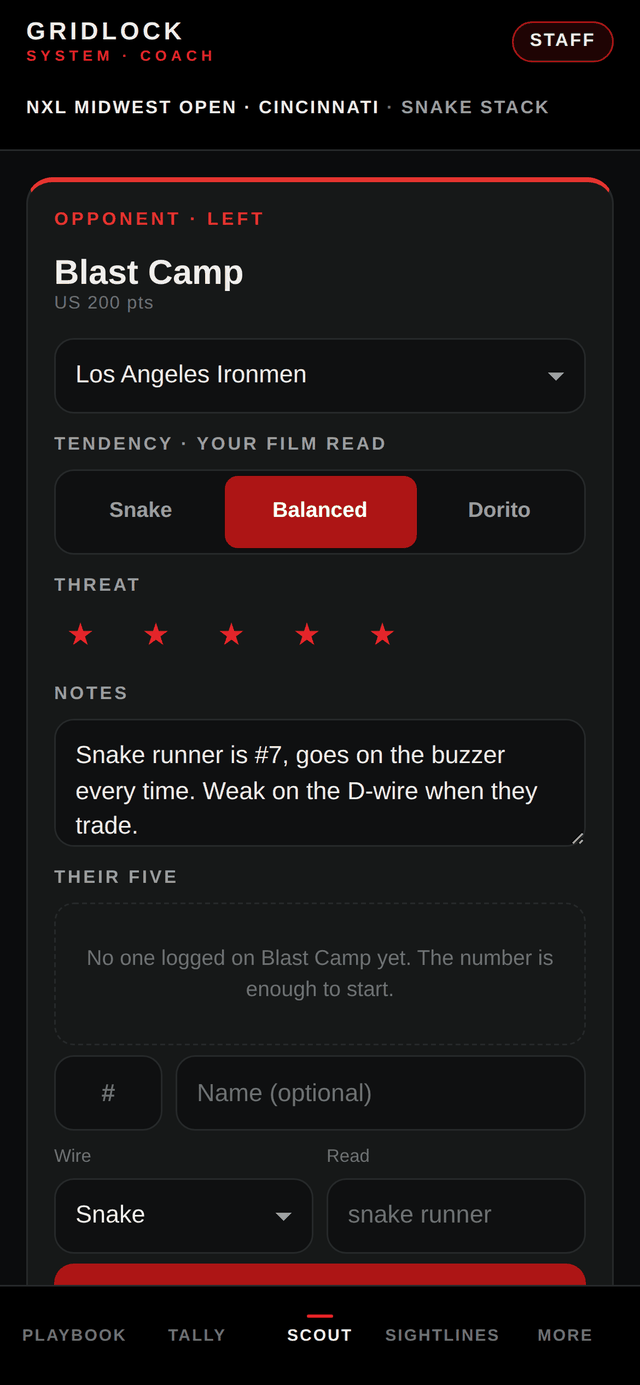
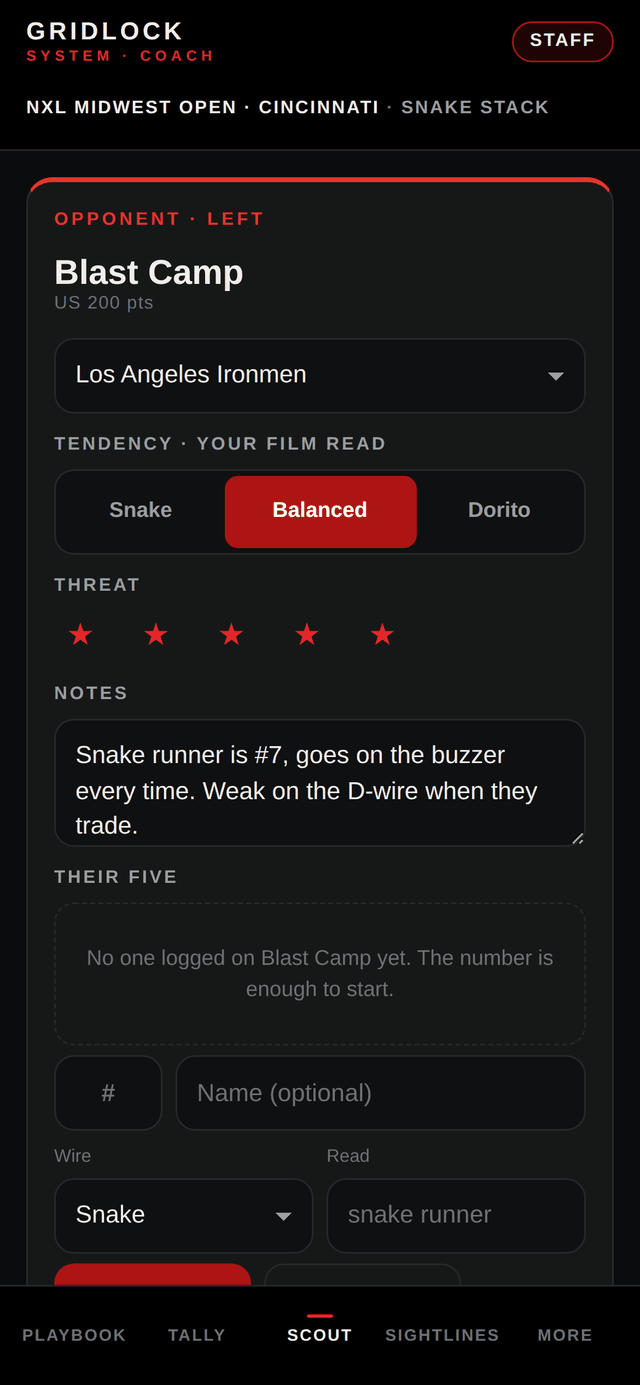
Read a roster off a screenshot, and stop losing the coach's place
Scout can now take a roster the phone read out of a picture. There is no
network in this app and there will not be one, so nothing is fetched: the
coach screenshots the roster, lets iOS Live Text or Android Lens read it,
and pastes the text in. What arrives is ragged, so it is parsed into
number, name and wire, shown back as a list he can drop rows from, and
only added once he has looked at it. Duplicates against players already
logged are skipped, and a pasted player is editable like a typed one.

Also fixes something older and worse. Every tap rebuilds the screen, and
a rebuilt scroller comes back at the top, so grading a man at the bottom
of a long card threw the coach to the head of the tab. Render now holds
the place unless the screen itself changed.

304 function checks, 61 device checks across 14 devices, 58/58 bunkers at
0.0000 ft, load test within budget.

Claude-Session: https://claude.ai/code/session_019NY29crEcm2oYkRmb2ARNX

Changed region(s): [[0.375, 0.9004, 0.9062, 0.9314]]

diff --git a/web/index.html b/web/index.html
@@ -424,6 +424,11 @@ svg.field{width:100%;height:auto;display:block}
 .rost__num{text-align:center;font-weight:700}
 .rost__add{display:grid;grid-template-columns:66px 1fr;gap:var(--s2)}
 .rost__add .rost__ps{grid-column:1/-1}
+.rost__read{display:grid;grid-template-columns:52px 1fr auto;align-items:center;gap:var(--s3);
+  padding:var(--s2) var(--s3);background:var(--sunk);border-radius:var(--r-sm);min-height:48px}
+.rost__read b{text-align:center;font-weight:700;color:var(--accent-lit)}
+.rost__read span{min-width:0;overflow:hidden;text-overflow:ellipsis;white-space:nowrap}
+.paste{margin-top:var(--s3);padding:var(--s3);border:1px solid var(--line);border-radius:var(--r-md)}
 
 .who2{display:grid;grid-template-columns:1fr 1fr;gap:var(--s3)}
 .who2 h4{margin:0 0 var(--s2);font-size:var(--t-xs);font-weight:700;letter-spacing:.12em;text-transform:uppercase;color:var(--mute)}
@@ -937,6 +942,10 @@ let S = load();
 // A saved layout that no longer ships — the fabricated Tampa Bay and Cincinnati
 // entries — must not leave a coach staring at an empty field.
 if(!LAYOUTS[S.layoutKey]) S.layoutKey = "mwo";
+
+// A half-finished paste is scratch, not a record. It should not still be sitting
+// open three days later at the next event.
+S.paste = null; S.pasteSide = ""; S.pasteNote = "";
 
 // Walk notes and code words were single text boxes. Nobody's typing is thrown
 // away: what was in the box becomes the first entry in the new list.
@@ -2048,6 +2057,67 @@ window.setScoutThreat = (side, i, n) => {
   editProfile(side, {players: pitOf(side).players.map((p, k) => k === i ? {...p, threat:n} : p)});
   render();
 };
+// ---- a roster read off a screenshot ----
+// Nothing is fetched: there is no network in this app and there is not going to
+// be one. The phone already reads text out of a picture — press and hold a
+// screenshot in Photos on iOS, tap the text button in Lens on Android — so the
+// coach copies it there and drops it in here. What arrives is loose and messy,
+// so it is parsed, shown back, and only added once he has looked at it.
+const ROSTER_JUNK = /^(#|no\.?|num(ber)?|player(s)?|name|roster|pos(ition)?|team(s)?|division|class|event|rank(ing)?|pts|points|paid|owed|reg(istration)?|status|home|menu|share|follow|back)$/i;
+const ROSTER_WIRE = [[/\bsnake\b/i,"Snake"],[/\bdorito\b/i,"Dorito"],[/\bcent(er|re)\b/i,"Centre"],[/\bback\b/i,"Back"]];
+function looksLikeName(s){
+  const words = s.split(" ").filter(Boolean);
+  return words.length >= 1 && words.length <= 4 && s.length <= 40 &&
+         words.every(w => /^[A-Za-z][A-Za-z'’.\-]*$/.test(w));
+}
+function parseRoster(text){
+  const found = [], skipped = [];
+  String(text || "").split(/[\n\r]+/).forEach(raw => {
+    const line = raw.replace(/[|\t,;]+/g, " ").replace(/^[•\-–*]\s*/, "")
+                    .replace(/\s+/g, " ").trim();
+    if(!line) return;
+    // one heading, or a whole header row of them: "Player  No.", "# Name Team"
+    if(line.split(" ").every(w => ROSTER_JUNK.test(w))) return;
+    let rest = line, num = "";
+    const lead = rest.match(/^#?\s*(\d{1,3})\b\s*/);
+    const tail = rest.match(/\s*#?\s*(\d{1,3})$/);
+    if(lead){ num = lead[1]; rest = rest.slice(lead[0].length); }
+    else if(tail){ num = tail[1]; rest = rest.slice(0, tail.index); }
+    let wire = "";
+    ROSTER_WIRE.forEach(([re, w]) => {
+      if(!wire && re.test(rest)){ wire = w; rest = rest.replace(re, " "); }
+    });
+    rest = rest.replace(/[^A-Za-z'’.\- ]/g, " ").replace(/\s+/g, " ").trim();
+    if(!rest && !num){ skipped.push(line); return; }
+    if(rest && !looksLikeName(rest)){ skipped.push(line); return; }   // prose, not a player
+    found.push({num, name: clean(rest), wire: wire || "Flex", note: "", threat: 3});
+  });
+  return {found: found.slice(0, 40), skipped};
+}
+window.openPaste = side => { S.pasteSide = side; S.paste = null; S.pasteNote = ""; save(S); render(); };
+window.closePaste = () => { S.pasteSide = ""; S.paste = null; save(S); render(); };
+window.readRoster = side => {
+  const el = document.getElementById("rosterIn"), text = el ? el.value : "";
+  S.paste = {side, text, ...parseRoster(text)};
+  save(S); render();
+};
+window.dropPasted = i => {
+  S.paste = {...S.paste, found: S.paste.found.filter((_, k) => k !== i)};
+  save(S); render();
+};
+window.keepRoster = () => {
+  const {side, found} = S.paste || {};
+  if(!side || !(found || []).length) return;
+  const have = pitOf(side).players;
+  const dupe = p => have.some(h => (p.num && h.num === p.num) ||
+                                  (p.name && (h.name || "").toLowerCase() === p.name.toLowerCase()));
+  const add = found.filter(p => !dupe(p));
+  editProfile(side, {players: [...have, ...add]});
+  const already = found.length - add.length;
+  S.pasteSide = ""; S.paste = null;
+  S.pasteNote = `Added ${add.length}.` + (already ? ` ${already} ${already===1?"was":"were"} already logged.` : "");
+  save(S); render();
+};
 window.delScoutPlayer = (side, i) => {
   editProfile(side, {players: pitOf(side).players.filter((_, k) => k !== i)});
   render();
@@ -2513,8 +2583,42 @@ function pit(side,T,label){
             <input id="sp-note-${side}" placeholder="snake runner"/></label>
         </div>
       </div>
-      <button class="btn btn--block" onclick="addScoutPlayer('${side}')">Log a player</button>
+      <div class="toggles">
+        <button class="btn" onclick="addScoutPlayer('${side}')">Log a player</button>
+        <button class="btn btn--quiet" onclick="openPaste('${side}')">Paste a roster</button>
+      </div>
+      ${S.pasteSide === side ? pasteBox(side) : ""}
+      ${S.pasteNote && S.pasteSide !== side ? `<p class="note" style="color:var(--accent-lit)">${esc(S.pasteNote)}</p>` : ""}
     </div>
+  </div>`;
+}
+
+// The screenshot never reaches this app — the phone reads it, the coach pastes
+// the text, and he sees what was read before a single name is kept.
+function pasteBox(side){
+  const p = (S.paste && S.paste.side === side) ? S.paste : null;
+  return `<div class="paste">
+    <p class="note">Screenshot their roster, then let the phone read the picture — press and hold it in
+      Photos on iPhone, or tap the text button in Lens on Android — copy, and paste it here. It stays
+      on this phone.</p>
+    <div class="fld"><label>Paste the roster</label>
+      <textarea id="rosterIn" placeholder="12 Ryan Greenspan&#10;#4 Alex Goldman snake&#10;Chad Busiere 7">${esc((p && p.text) || "")}</textarea></div>
+    <div class="toggles">
+      <button class="btn" onclick="readRoster('${side}')">Read it</button>
+      <button class="btn btn--quiet" onclick="closePaste()">Cancel</button>
+    </div>
+    ${p ? (p.found.length
+      ? `<div class="fld"><label>Read ${p.found.length} ${p.found.length===1?"player":"players"} · drop any that are wrong</label>
+          <div class="rost">${p.found.map((m,i)=>`<div class="rost__read">
+            <b>${esc(m.num || "—")}</b><span>${esc(m.name || "no name")}</span>
+            <button class="btn btn--danger" onclick="dropPasted(${i})">Drop</button>
+          </div>`).join("")}</div></div>
+        <button class="btn btn--block" onclick="keepRoster()">Add these to ${esc(pitOf(side).name)}</button>`
+      : `<div class="empty">Nothing in that read as a player. Type them in above instead.</div>`) : ""}
+    ${p && p.skipped.length
+      ? `<p class="note">Left out ${p.skipped.length} ${p.skipped.length===1?"line":"lines"} that did not read as a player:
+         ${esc(p.skipped.slice(0,3).join(" · "))}${p.skipped.length>3?" …":""}</p>`
+      : ""}
   </div>`;
 }
 
@@ -3274,8 +3378,21 @@ window.cycleEvent = () => {
   set({layoutKey:keys[(keys.indexOf(S.layoutKey)+1)%keys.length]});
 };
 
+// Every tap rebuilds the whole screen, and the browser puts a rebuilt scroller
+// back at the top. So grading a man at the bottom of a long card, or dropping a
+// row off a pasted roster, threw the coach back to the head of the tab. Between
+// points on a sideline that is the difference between using this and putting it
+// down. Hold the place unless the screen itself changed — a new tab does belong
+// at the top.
+let _where = "";
 function render(){
+  const main = document.querySelector(".main");
+  const at = main ? main.scrollTop : 0;
+  const screen = [S.entered, S.tab, S.more, S.scoutTab].join("|");
   document.getElementById("root").innerHTML = S.entered ? shell() : promo();
+  const next = document.querySelector(".main");
+  if(next && screen === _where) next.scrollTop = at;
+  _where = screen;
 }
 render();
 </script>

diff --git a/test/functions.js b/test/functions.js
@@ -133,6 +133,25 @@ const ROSTER = [
       ? !!document.querySelector("button.ctx")
       : !document.querySelector("button.ctx") && !!document.querySelector(".ctx")));
 
+  // Every tap rebuilds the screen. It used to come back at the top, which threw
+  // the coach off whatever he was reading, halfway down a long card.
+  check("a tap deep in a card leaves the screen where it was", await ev(async () => {
+    window.set({ tab: "scout", scoutTab: "matchup" });
+    await new Promise(r => setTimeout(r, 80));
+    const main = document.querySelector(".main");
+    main.scrollTop = 600;
+    const was = main.scrollTop;
+    window.setThreat("right", 2);
+    await new Promise(r => setTimeout(r, 80));
+    return was > 0 && document.querySelector(".main").scrollTop === was;
+  }));
+  check("changing tab does start at the top", await ev(async () => {
+    document.querySelector(".main").scrollTop = 600;
+    window.set({ tab: "tally" });
+    await new Promise(r => setTimeout(r, 80));
+    return document.querySelector(".main").scrollTop === 0;
+  }));
+
   /* --------------------------------------------------------------- playbook */
   G("Playbook");
   await seed();
@@ -824,6 +843,104 @@ const ROSTER = [
     /lean dorito/.test(profileOf("Malicious").notes) && profileOf("Rejects").notes === ""));
   check("the migrated slot keeps only the team name", await ev(() =>
     Object.keys(S.left).join() === "name"));
+
+  /* -------------------------------- a roster read off the phone's own OCR */
+  // A screenshot never reaches this app. The phone reads the picture, the coach
+  // pastes what it read, and this has to survive how ragged that text is.
+  G("Roster from a screenshot");
+  await ev(() => window.set({ tab: "scout", scoutTab: "matchup", scout: {},
+    left: { name: "Blast Camp" }, right: { name: "Rejects" }, paste: null, pasteSide: "" }));
+
+  const parse = t => ev(x => parseRoster(x), t);
+  check("number first, name after", await parse("12 Ryan Greenspan").then(r =>
+    r.found.length === 1 && r.found[0].num === "12" && r.found[0].name === "Ryan Greenspan"));
+  check("a hash in front is still a number", await parse("#4 Alex Goldman").then(r =>
+    r.found[0].num === "4" && r.found[0].name === "Alex Goldman"));
+  check("name first, number after", await parse("Chad Busiere 7").then(r =>
+    r.found[0].num === "7" && r.found[0].name === "Chad Busiere"));
+  check("a table pasted with tabs or pipes reads the same", await parse("9\tKS Kang\n| 15 | Nick Slowiak |").then(r =>
+    r.found.length === 2 && r.found[0].num === "9" && r.found[1].name === "Nick Slowiak"));
+  check("a wire named on the line is picked up", await parse("4 Alex Goldman snake").then(r =>
+    r.found[0].wire === "Snake" && r.found[0].name === "Alex Goldman"));
+  check("no wire named means flex, never a guess", await parse("4 Alex Goldman").then(r =>
+    r.found[0].wire === "Flex"));
+  check("a number with no name is still a player", await parse("22").then(r =>
+    r.found.length === 1 && r.found[0].num === "22" && r.found[0].name === ""));
+  check("a name with no number is still a player", await parse("Ryan Greenspan").then(r =>
+    r.found.length === 1 && r.found[0].name === "Ryan Greenspan" && r.found[0].num === ""));
+  check("column headings are dropped", await parse("Player\nNo.\nDivision\n7 Reyes").then(r =>
+    r.found.length === 1 && r.found[0].name === "Reyes"));
+  check("a whole header row is dropped, not read as a man", await parse("Player  No.\n# Name Team\n7 Reyes").then(r =>
+    r.found.length === 1 && r.found[0].name === "Reyes"));
+  check("page chrome and prose are left out, not guessed at", await parse(
+    "7 Reyes\nRegistration closes on the fourteenth of June at midnight\nmenu").then(r =>
+    r.found.length === 1 && r.skipped.length === 1));
+  check("what was left out is handed back so nothing goes quiet", await parse(
+    "Registration closes on the fourteenth of June").then(r =>
+    r.found.length === 0 && r.skipped.length === 1));
+  check("a paste is capped so one bad screenshot cannot flood the sheet", await parse(
+    Array.from({ length: 60 }, (_, i) => (i + 1) + " Player" + i).join("\n")).then(r =>
+    r.found.length === 40));
+  check("threat starts unscored at three, the same as a typed player", await parse("12 Greenspan").then(r =>
+    r.found[0].threat === 3));
+
+  check("reading it shows what was read and adds nobody yet", await ev(() => {
+    window.openPaste("right");
+    document.getElementById("rosterIn").value = "12 Ryan Greenspan\n#4 Alex Goldman snake\nChad Busiere 7";
+    window.readRoster("right");
+    return S.paste.found.length === 3 && pitOf("right").players.length === 0;
+  }));
+  check("the read list is on screen with a way to drop a bad row",
+    await page.locator(".rost__read").count() === 3 &&
+    await page.locator(".rost__read .btn--danger").count() === 3);
+  check("dropping a row takes it out before anyone is kept", await ev(() => {
+    window.dropPasted(1);
+    return S.paste.found.length === 2 && S.paste.found[1].name === "Chad Busiere";
+  }));
+  check("keeping them logs the rest against the team", await ev(() => {
+    window.keepRoster();
+    const men = pitOf("right").players;
+    return men.length === 2 && men[0].num === "12" && men[1].name === "Chad Busiere";
+  }));
+  check("the box closes and says what it did", await ev(() =>
+    !S.paste && S.pasteSide === "" && /Added 2/.test(S.pasteNote)));
+  check("a second paste of the same roster adds nobody twice", await ev(() => {
+    window.openPaste("right");
+    document.getElementById("rosterIn").value = "12 Ryan Greenspan\n7 Chad Busiere\n15 Nick Slowiak";
+    window.readRoster("right");
+    window.keepRoster();
+    return pitOf("right").players.length === 3 && /already logged/.test(S.pasteNote);
+  }));
+  check("a pasted player is editable like any other", await ev(() => {
+    window.editScoutPlayer("right", 0, "name", "R. Greenspan");
+    window.setScoutThreat("right", 0, 5);
+    const m = pitOf("right").players[0];
+    return m.name === "R. Greenspan" && m.threat === 5;
+  }));
+  check("a pasted roster belongs to the team, not the pit", await ev(() => {
+    window.loadPit("Las Vegas Shock");
+    const clean = pitOf("right").players.length === 0;
+    window.loadPit("Rejects");
+    return clean && pitOf("right").players.length === 3;
+  }));
+  check("it survives a reload", await ev(() =>
+    (JSON.parse(localStorage.getItem("gridlock.coach.v2")).scout["Rejects"].players || []).length === 3));
+  check("cancelling throws the paste away", await ev(() => {
+    window.openPaste("left");
+    document.getElementById("rosterIn").value = "1 Nobody";
+    window.readRoster("left");
+    window.closePaste();
+    return !S.paste && S.pasteSide === "" && pitOf("left").players.length === 0;
+  }));
+  check("an empty paste keeps its hands off the sheet", await ev(() => {
+    window.openPaste("left");
+    document.getElementById("rosterIn").value = "   \n\n";
+    window.readRoster("left");
+    const none = S.paste.found.length === 0;
+    window.keepRoster();
+    window.closePaste();
+    return none && pitOf("left").players.length === 0;
+  }));
 
   /* ----------------------------------------------------------- path editing */
   G("Path editing");

diff --git a/README.md b/README.md
@@ -139,7 +139,7 @@ Four suites, all driving the real app in a real browser:
 
 | Command | What it proves |
 |---|---|
-| `npm test` | 277 assertions across every interactive function — auth, gating, all five tabs, all eleven More destinations, Scout's four sub-tabs, the 8-way pad, tally, movement, assess, classes, league, persistence, layout integrity, break routing, the roster editor, the walk, code words, lineups, path editing, per-team scouting, the matchup panel, cause of an out, the history it counts, saving and loading a copy, the opponent's breakouts, the field layers, the replay, the QR encoder, the first run, the divisions and the house rules. |
+| `npm test` | 304 assertions across every interactive function — auth, gating, all five tabs, all eleven More destinations, Scout's four sub-tabs, the 8-way pad, tally, movement, assess, classes, league, persistence, layout integrity, break routing, the roster editor, the walk, code words, lineups, path editing, per-team scouting, the matchup panel, cause of an out, the history it counts, saving and loading a copy, the opponent's breakouts, the field layers, the replay, the QR encoder, the first run, the divisions, a roster read off a screenshot, holding your place on screen, and the house rules. |
 | `npm run test:devices` | Every iPhone since the SE 2, the iPad line, and two Android references — 14 devices x 5 tabs. Checks for sideways scroll, a tab bar off the viewport, any tap target under 44 px, and running text past 80 characters a line. Safe-area padding is asserted from the CSS, since Chromium has no notch to emulate. |
 | `npm run verify:bunkers` | Reads the drawn SVG back out of the browser and compares every footprint against the digitized map, by bunker id. Currently 58/58 at 0.00 ft. |
 | `npm run loadtest` | A full season seeded on a 4x-throttled CPU. See `docs/SCALING.md`. |
